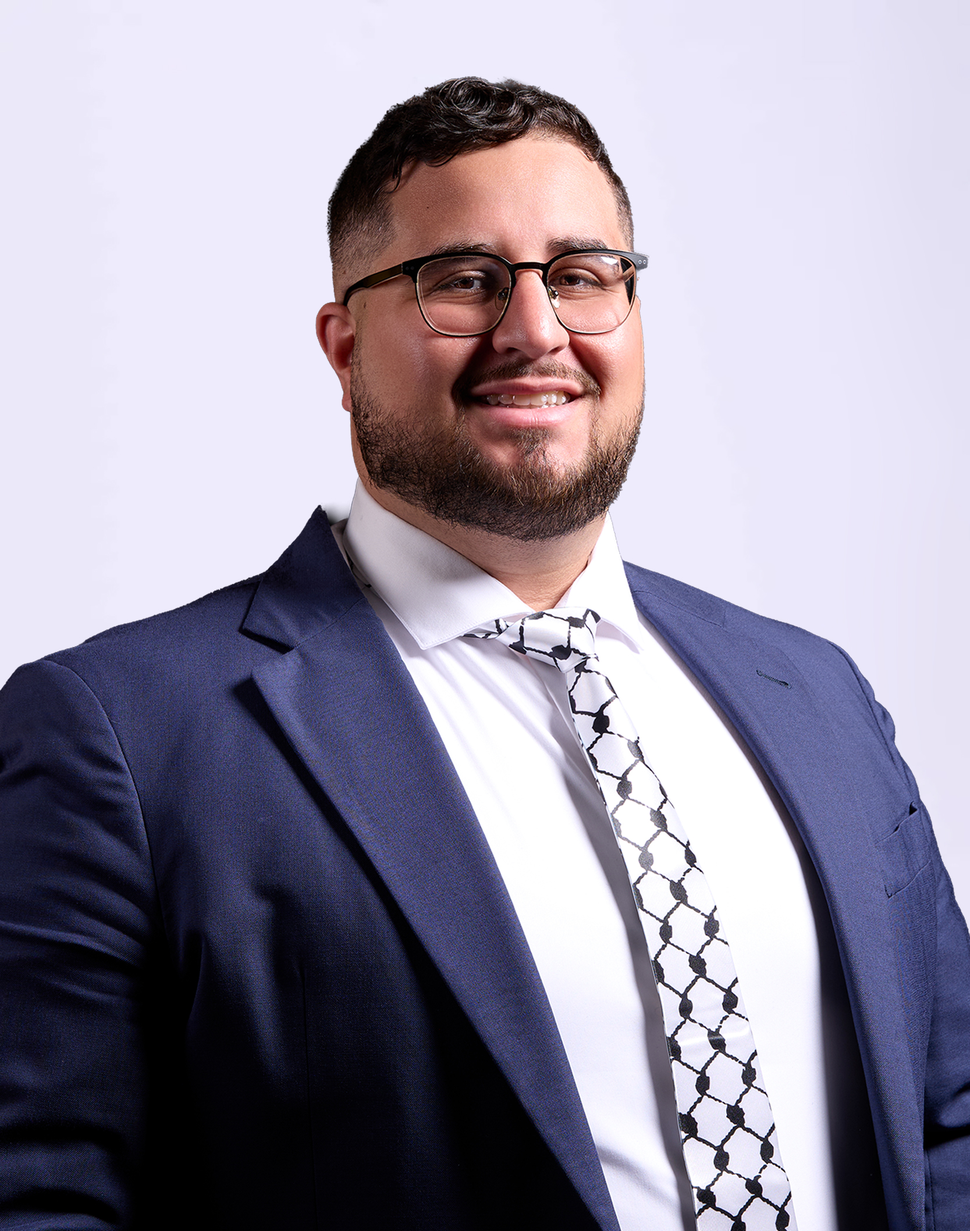
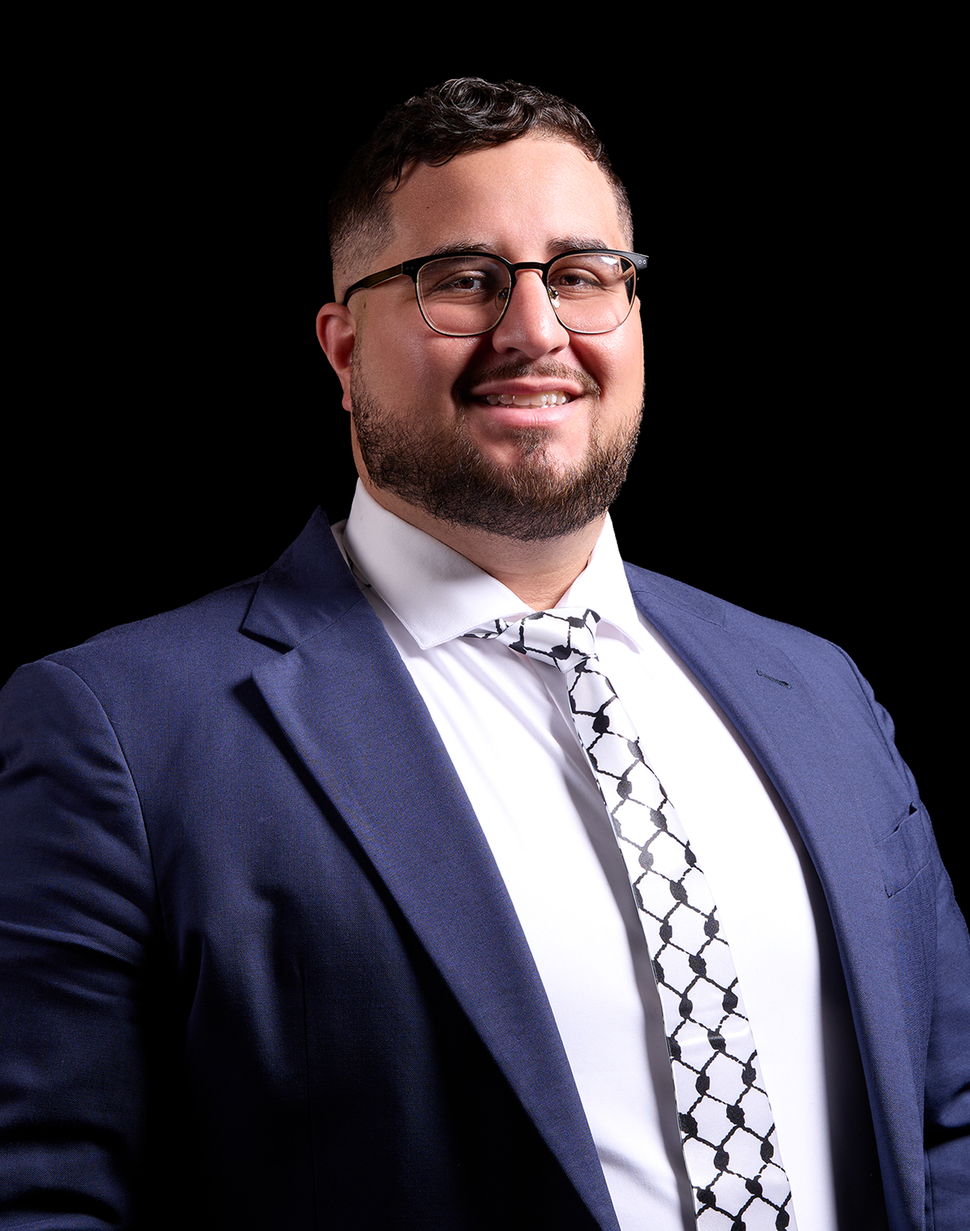
Update team photos with black backgrounds

diff --git a/team-experts.html b/team-experts.html
@@ -1035,7 +1035,7 @@ A2 2 0 0 1 22 16.92z"></path>
                     <article class="group bg-white rounded-[2.5rem] p-4 border border-brand-border/60 hover:border-brand-primary/40 hover:-translate-y-3 hover:shadow-[0_20px_50px_rgba(108,161,230,0.2)] transition-all duration-500 flex flex-col h-full">
                         <div class="relative overflow-hidden rounded-[1.8rem] h-80 w-full mb-6 z-10 select-none team-split-bg">
                             <div class="absolute inset-0 bg-gradient-to-tr from-brand-primary/10 to-transparent opacity-0 group-hover:opacity-100 transition-opacity duration-500 z-0"></div>
-                            <img src="/assets/new%20team%20member%20picture/updated%20p%5Bic/suhad.jpg" alt="Suhad Al-Hejoj" class="w-full h-full object-cover object-top mix-blend-multiply opacity-95 group-hover:opacity-100 group-hover:scale-105 group-hover:rotate-1 transition-all duration-500 relative z-10" loading="lazy" decoding="async">
+                            <img src="/assets/new%20team%20member%20picture/updated%20p%5Bic/Suhad-Al-Hejoj.jpg" alt="Suhad Al-Hejoj" class="w-full h-full object-cover object-top mix-blend-multiply opacity-95 group-hover:opacity-100 group-hover:scale-105 group-hover:rotate-1 transition-all duration-500 relative z-10" loading="lazy" decoding="async">
                         </div>
                         <div class="text-center px-4 pb-4 flex flex-col flex-grow">
                             <h3 class="font-heading font-black text-xl text-brand-navy group-hover:text-brand-primary transition-colors duration-300 mb-2">Suhad Al-Hejoj</h3>

diff --git a/team-members/index.html b/team-members/index.html
@@ -1035,7 +1035,7 @@ A2 2 0 0 1 22 16.92z"></path>
                     <article class="group bg-white rounded-[2.5rem] p-4 border border-brand-border/60 hover:border-brand-primary/40 hover:-translate-y-3 hover:shadow-[0_20px_50px_rgba(108,161,230,0.2)] transition-all duration-500 flex flex-col h-full">
                         <div class="relative overflow-hidden rounded-[1.8rem] h-80 w-full mb-6 z-10 select-none team-split-bg">
                             <div class="absolute inset-0 bg-gradient-to-tr from-brand-primary/10 to-transparent opacity-0 group-hover:opacity-100 transition-opacity duration-500 z-0"></div>
-                            <img src="/assets/new%20team%20member%20picture/updated%20p%5Bic/suhad.jpg" alt="Suhad Al-Hejoj" class="w-full h-full object-cover object-top mix-blend-multiply opacity-95 group-hover:opacity-100 group-hover:scale-105 group-hover:rotate-1 transition-all duration-500 relative z-10" loading="lazy" decoding="async">
+                            <img src="/assets/new%20team%20member%20picture/updated%20p%5Bic/Suhad-Al-Hejoj.jpg" alt="Suhad Al-Hejoj" class="w-full h-full object-cover object-top mix-blend-multiply opacity-95 group-hover:opacity-100 group-hover:scale-105 group-hover:rotate-1 transition-all duration-500 relative z-10" loading="lazy" decoding="async">
                         </div>
                         <div class="text-center px-4 pb-4 flex flex-col flex-grow">
                             <h3 class="font-heading font-black text-xl text-brand-navy group-hover:text-brand-primary transition-colors duration-300 mb-2">Suhad Al-Hejoj</h3>
